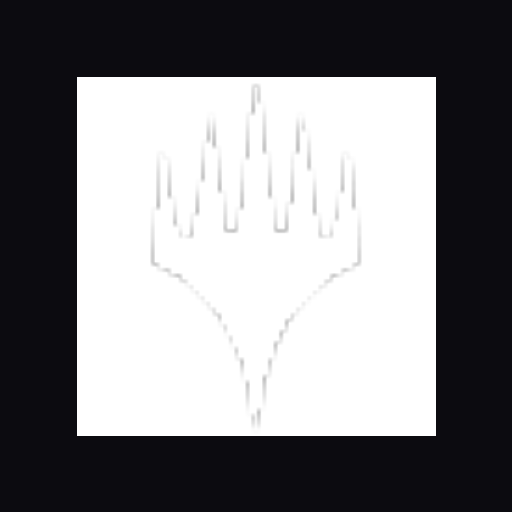
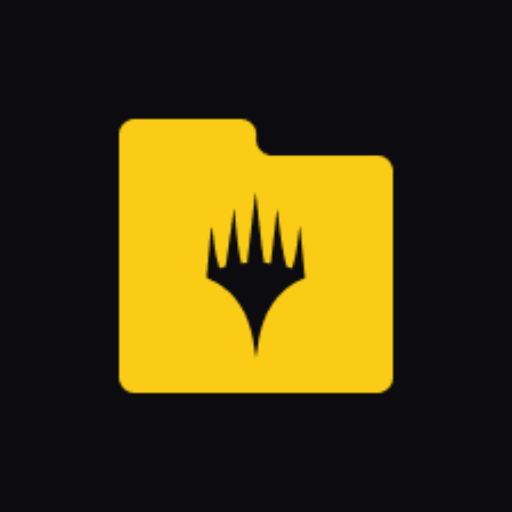
Nuova icona app PWA: cartella gialla con simbolo Planeswalker

diff --git a/sw.js b/sw.js
@@ -1,5 +1,5 @@
 // Grimorio PWA Service Worker
-const CACHE_NAME = "grimorio-cache-v2";
+const CACHE_NAME = "grimorio-cache-v3";
 const STATIC_ASSETS = [
   "./",
   "./index.html",
